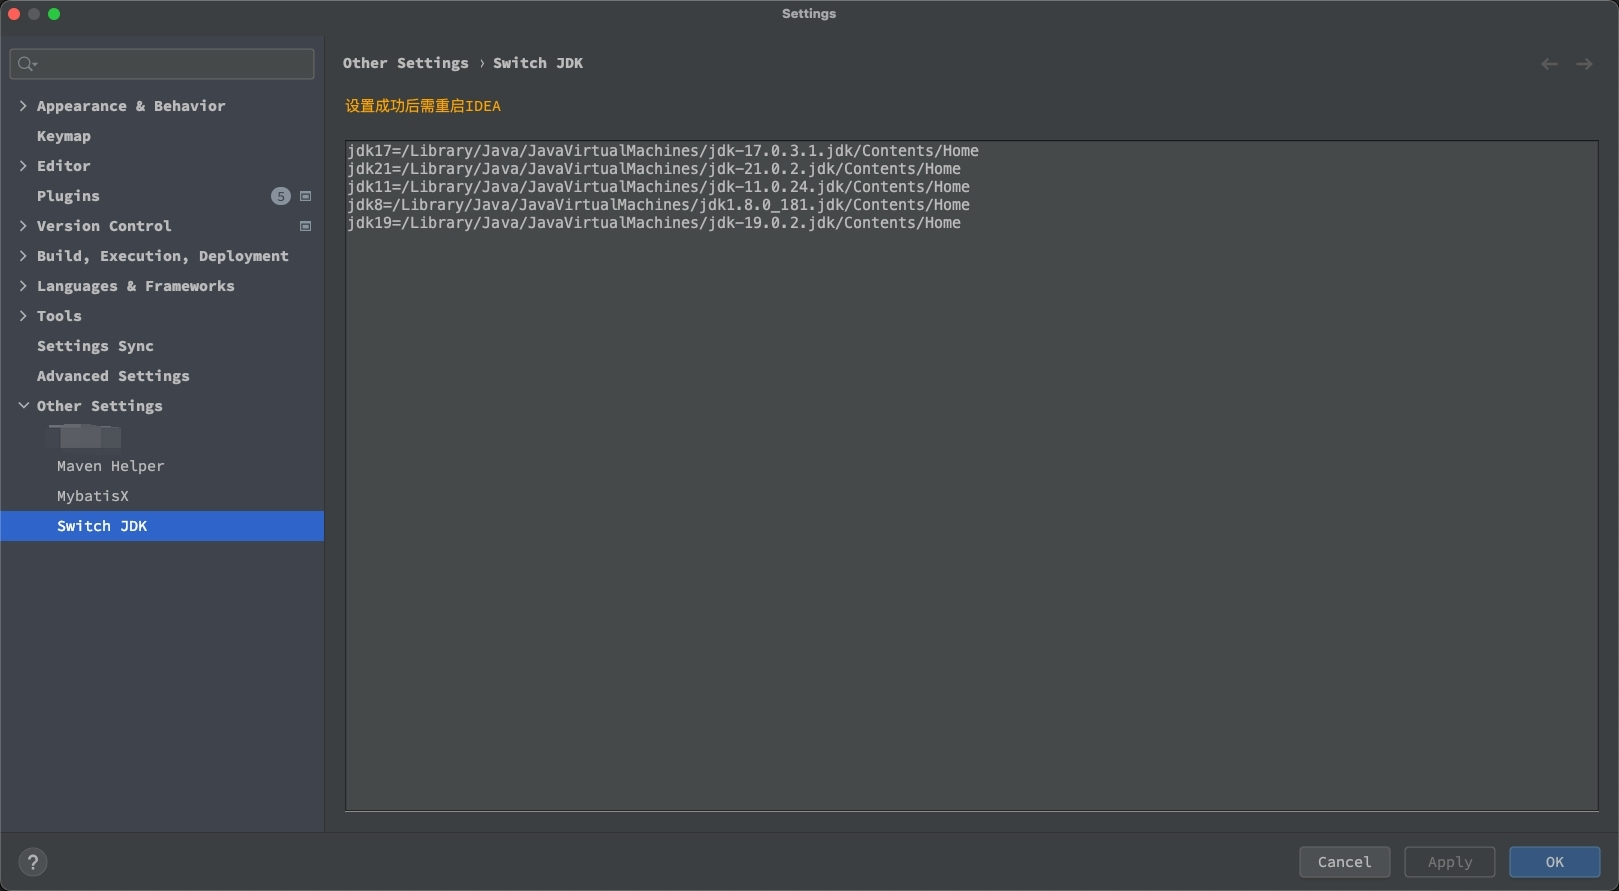
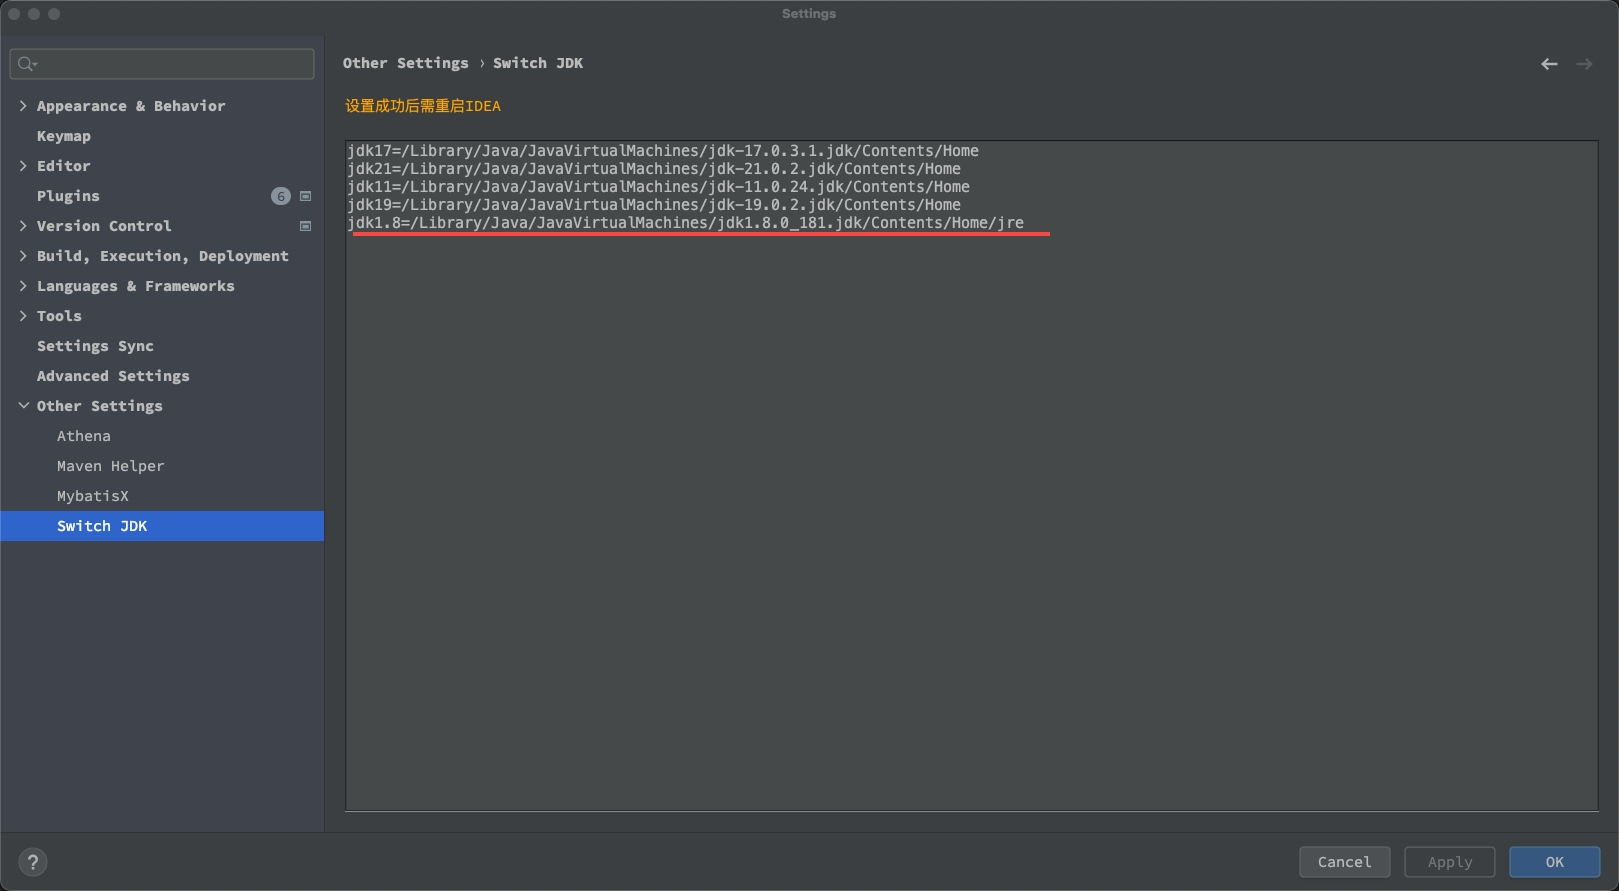
jdk8

diff --git a/README.md b/README.md
@@ -7,20 +7,20 @@ This plugin allows you to quickly switch between different JDK versions in Intel
 1. Go to **Settings > Other Settings > Switch Sdk**
 2. Configure your JDK paths in the following format:
    ```properties
+   jdk8=/path/to/jdk8/home/jre
    jdk17=/path/to/jdk17/home
    jdk21=/path/to/jdk21/home
    jdk11=/path/to/jdk11/home
-   jdk8=/path/to/jdk8/home
    jdk19=/path/to/jdk19/home
    
 3. Restart idea
 
-### Example Configuration:
+### Example Configuration:(Notice! There are slight differences in jdk8 configuration)
    ```properties
+    jdk8=/Library/Java/JavaVirtualMachines/jdk1.8.0_181.jdk/Contents/Home/jre
     jdk17=/Library/Java/JavaVirtualMachines/jdk-17.0.3.1.jdk/Contents/Home
     jdk21=/Library/Java/JavaVirtualMachines/jdk-21.0.2.jdk/Contents/Home
     jdk11=/Library/Java/JavaVirtualMachines/jdk-11.0.24.jdk/Contents/Home
-    jdk8=/Library/Java/JavaVirtualMachines/jdk1.8.0_181.jdk/Contents/Home
     jdk19=/Library/Java/JavaVirtualMachines/jdk-19.0.2.jdk/Contents/Home
 ```
 
